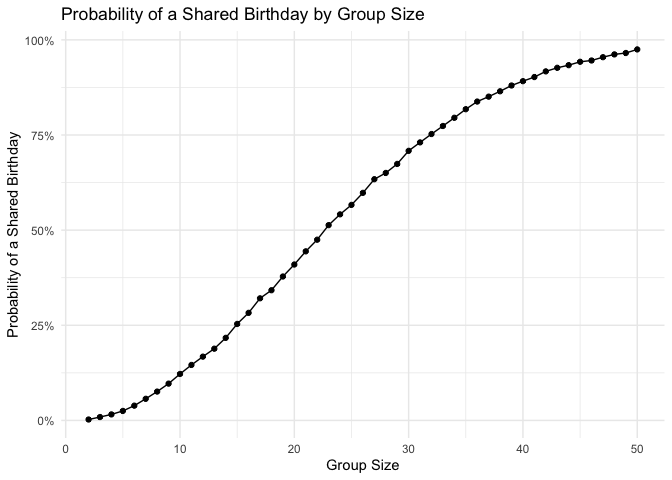
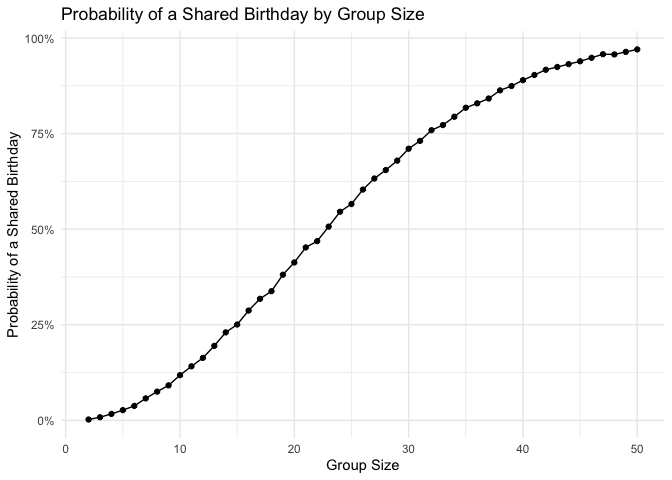
Complete Problem 2 longitudinal data analysis

diff --git a/p8105_hw5_ry2559.md b/p8105_hw5_ry2559.md
@@ -30,16 +30,16 @@ birthday_results
     ## # A tibble: 49 × 3
     ##    group_size simulations    probability
     ##         <int> <list>               <dbl>
-    ##  1          2 <lgl [10,000]>      0.0024
-    ##  2          3 <lgl [10,000]>      0.0089
-    ##  3          4 <lgl [10,000]>      0.0158
-    ##  4          5 <lgl [10,000]>      0.0249
-    ##  5          6 <lgl [10,000]>      0.0388
-    ##  6          7 <lgl [10,000]>      0.0568
-    ##  7          8 <lgl [10,000]>      0.0758
-    ##  8          9 <lgl [10,000]>      0.0967
-    ##  9         10 <lgl [10,000]>      0.122 
-    ## 10         11 <lgl [10,000]>      0.146 
+    ##  1          2 <lgl [10,000]>      0.0023
+    ##  2          3 <lgl [10,000]>      0.0083
+    ##  3          4 <lgl [10,000]>      0.0169
+    ##  4          5 <lgl [10,000]>      0.0268
+    ##  5          6 <lgl [10,000]>      0.0379
+    ##  6          7 <lgl [10,000]>      0.0575
+    ##  7          8 <lgl [10,000]>      0.0752
+    ##  8          9 <lgl [10,000]>      0.0916
+    ##  9         10 <lgl [10,000]>      0.118 
+    ## 10         11 <lgl [10,000]>      0.141 
     ## # ℹ 39 more rows
 
 ``` r
@@ -64,3 +64,158 @@ approximately 50% when the group size is around 23 people and continues
 to rise toward 100% as the group becomes larger. This illustrates the
 birthday paradox: a shared birthday becomes likely even in a group that
 is much smaller than 365 people.
+
+# Problem 2
+
+``` r
+file_names = list.files(
+  path = "data",
+  pattern = "\\.csv$",
+  full.names = TRUE
+)
+
+file_names
+```
+
+    ##  [1] "data/con_01.csv" "data/con_02.csv" "data/con_03.csv" "data/con_04.csv"
+    ##  [5] "data/con_05.csv" "data/con_06.csv" "data/con_07.csv" "data/con_08.csv"
+    ##  [9] "data/con_09.csv" "data/con_10.csv" "data/exp_01.csv" "data/exp_02.csv"
+    ## [13] "data/exp_03.csv" "data/exp_04.csv" "data/exp_05.csv" "data/exp_06.csv"
+    ## [17] "data/exp_07.csv" "data/exp_08.csv" "data/exp_09.csv" "data/exp_10.csv"
+
+``` r
+study_data = tibble(
+  file_name = file_names
+) |>
+  mutate(
+    data = map(
+      file_name,
+      ~ read_csv(.x, show_col_types = FALSE)
+    )
+  )
+
+study_data
+```
+
+    ## # A tibble: 20 × 2
+    ##    file_name       data              
+    ##    <chr>           <list>            
+    ##  1 data/con_01.csv <spc_tbl_ [1 × 8]>
+    ##  2 data/con_02.csv <spc_tbl_ [1 × 8]>
+    ##  3 data/con_03.csv <spc_tbl_ [1 × 8]>
+    ##  4 data/con_04.csv <spc_tbl_ [1 × 8]>
+    ##  5 data/con_05.csv <spc_tbl_ [1 × 8]>
+    ##  6 data/con_06.csv <spc_tbl_ [1 × 8]>
+    ##  7 data/con_07.csv <spc_tbl_ [1 × 8]>
+    ##  8 data/con_08.csv <spc_tbl_ [1 × 8]>
+    ##  9 data/con_09.csv <spc_tbl_ [1 × 8]>
+    ## 10 data/con_10.csv <spc_tbl_ [1 × 8]>
+    ## 11 data/exp_01.csv <spc_tbl_ [1 × 8]>
+    ## 12 data/exp_02.csv <spc_tbl_ [1 × 8]>
+    ## 13 data/exp_03.csv <spc_tbl_ [1 × 8]>
+    ## 14 data/exp_04.csv <spc_tbl_ [1 × 8]>
+    ## 15 data/exp_05.csv <spc_tbl_ [1 × 8]>
+    ## 16 data/exp_06.csv <spc_tbl_ [1 × 8]>
+    ## 17 data/exp_07.csv <spc_tbl_ [1 × 8]>
+    ## 18 data/exp_08.csv <spc_tbl_ [1 × 8]>
+    ## 19 data/exp_09.csv <spc_tbl_ [1 × 8]>
+    ## 20 data/exp_10.csv <spc_tbl_ [1 × 8]>
+
+``` r
+study_data = study_data |>
+  mutate(
+    arm = case_when(
+      str_detect(file_name, "con_") ~ "control",
+      str_detect(file_name, "exp_") ~ "experimental"
+    ),
+    subject_id = str_extract(file_name, "\\d{2}")
+  )
+
+study_data
+```
+
+    ## # A tibble: 20 × 4
+    ##    file_name       data               arm          subject_id
+    ##    <chr>           <list>             <chr>        <chr>     
+    ##  1 data/con_01.csv <spc_tbl_ [1 × 8]> control      01        
+    ##  2 data/con_02.csv <spc_tbl_ [1 × 8]> control      02        
+    ##  3 data/con_03.csv <spc_tbl_ [1 × 8]> control      03        
+    ##  4 data/con_04.csv <spc_tbl_ [1 × 8]> control      04        
+    ##  5 data/con_05.csv <spc_tbl_ [1 × 8]> control      05        
+    ##  6 data/con_06.csv <spc_tbl_ [1 × 8]> control      06        
+    ##  7 data/con_07.csv <spc_tbl_ [1 × 8]> control      07        
+    ##  8 data/con_08.csv <spc_tbl_ [1 × 8]> control      08        
+    ##  9 data/con_09.csv <spc_tbl_ [1 × 8]> control      09        
+    ## 10 data/con_10.csv <spc_tbl_ [1 × 8]> control      10        
+    ## 11 data/exp_01.csv <spc_tbl_ [1 × 8]> experimental 01        
+    ## 12 data/exp_02.csv <spc_tbl_ [1 × 8]> experimental 02        
+    ## 13 data/exp_03.csv <spc_tbl_ [1 × 8]> experimental 03        
+    ## 14 data/exp_04.csv <spc_tbl_ [1 × 8]> experimental 04        
+    ## 15 data/exp_05.csv <spc_tbl_ [1 × 8]> experimental 05        
+    ## 16 data/exp_06.csv <spc_tbl_ [1 × 8]> experimental 06        
+    ## 17 data/exp_07.csv <spc_tbl_ [1 × 8]> experimental 07        
+    ## 18 data/exp_08.csv <spc_tbl_ [1 × 8]> experimental 08        
+    ## 19 data/exp_09.csv <spc_tbl_ [1 × 8]> experimental 09        
+    ## 20 data/exp_10.csv <spc_tbl_ [1 × 8]> experimental 10
+
+``` r
+tidy_study = study_data |>
+  unnest(data) |>
+  pivot_longer(
+    cols = starts_with("week_"),
+    names_to = "week",
+    values_to = "observation",
+    names_prefix = "week_",
+    names_transform = list(week = as.integer)
+  ) |>
+  select(arm, subject_id, week, observation)
+
+tidy_study
+```
+
+    ## # A tibble: 160 × 4
+    ##    arm     subject_id  week observation
+    ##    <chr>   <chr>      <int>       <dbl>
+    ##  1 control 01             1        0.2 
+    ##  2 control 01             2       -1.31
+    ##  3 control 01             3        0.66
+    ##  4 control 01             4        1.96
+    ##  5 control 01             5        0.23
+    ##  6 control 01             6        1.09
+    ##  7 control 01             7        0.05
+    ##  8 control 01             8        1.94
+    ##  9 control 02             1        1.13
+    ## 10 control 02             2       -0.88
+    ## # ℹ 150 more rows
+
+``` r
+tidy_study |>
+  ggplot(
+    aes(
+      x = week,
+      y = observation,
+      group = interaction(arm, subject_id),
+      color = arm
+    )
+  ) +
+  geom_line(alpha = 0.7) +
+  geom_point(size = 1.5) +
+  scale_x_continuous(breaks = 1:8) +
+  labs(
+    x = "Week",
+    y = "Observation",
+    color = "Study Arm",
+    title = "Observations Over Time by Study Arm"
+  ) +
+  theme_minimal()
+```
+
+![](p8105_hw5_ry2559_files/figure-gfm/unnamed-chunk-8-1.png)<!-- -->
+
+The control group remains relatively stable over the eight weeks, with
+observations fluctuating around similar levels over time. In contrast,
+the experimental group shows a clear upward trend, with observations
+generally increasing as the study progresses. The difference between the
+two groups becomes more pronounced in the later weeks, suggesting that
+the experimental condition may be associated with increasing outcome
+values over time.
